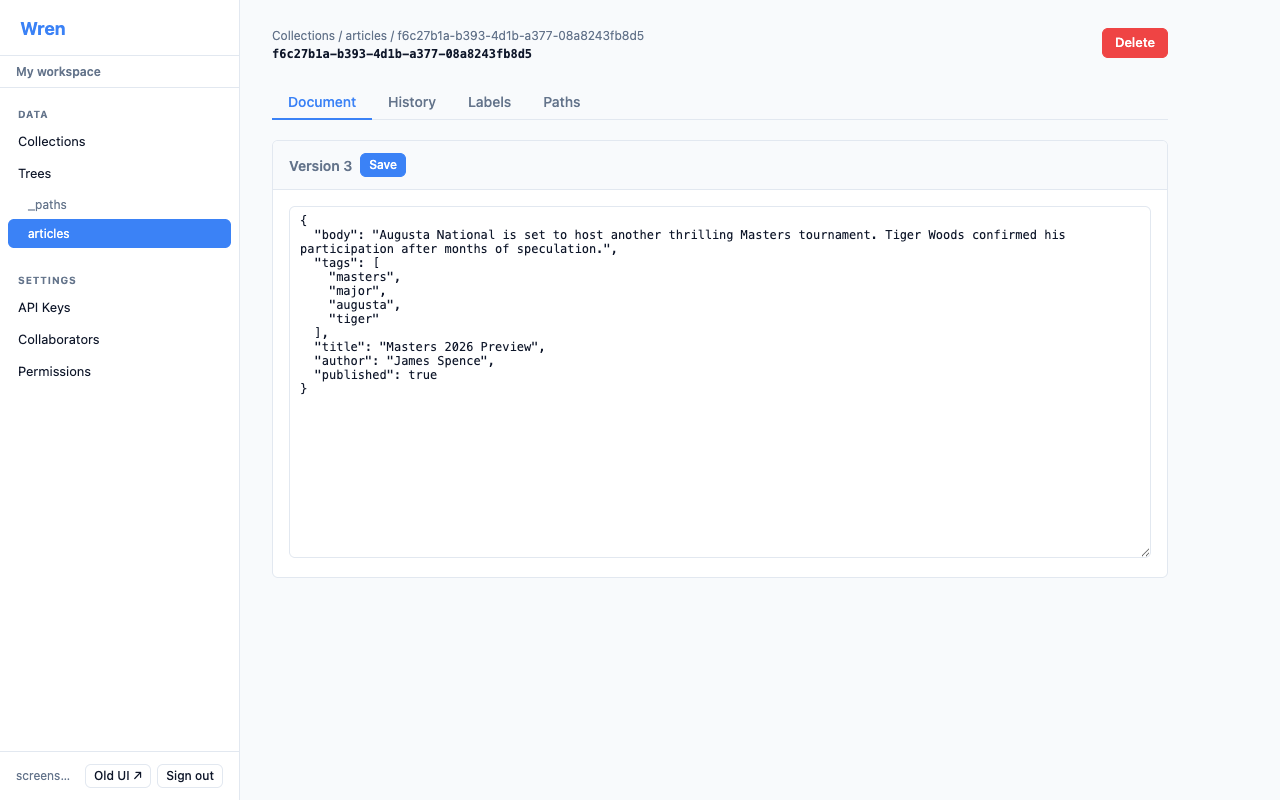
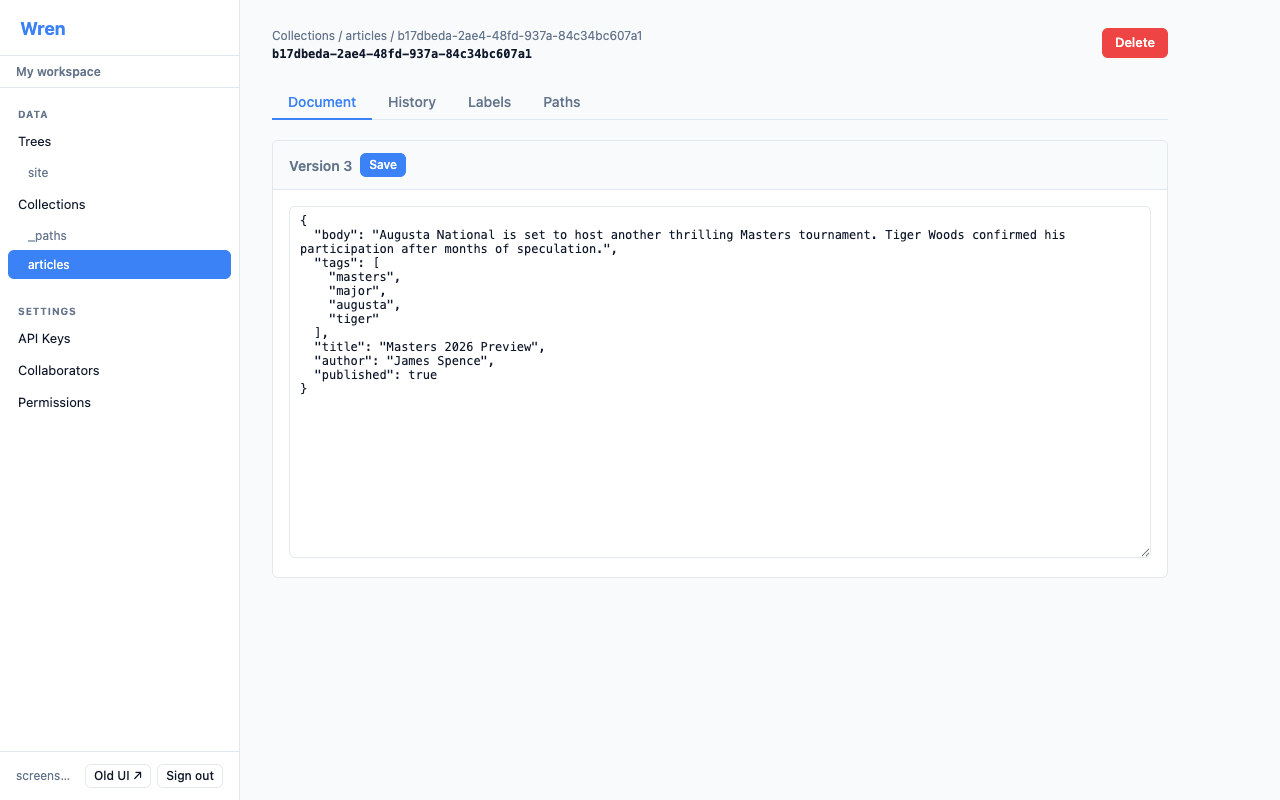
Regenerate all tutorial screenshots + add drilled-in tree view
- gen-screenshots.mjs now navigates to the tree file browser root
  directly (sidebar-linked), no more overview-click path
- Added 09b-tree-path.png showing a path with an assigned document,
  referenced from the tutorial
- Refreshed all existing screenshots: login now has Register tab,
  sidebar now lists trees above collections, etc.

diff --git a/tutorial.html b/tutorial.html
@@ -815,7 +815,10 @@ GET /tree/main/site/about</pre>
           </div>
         </div>
 
-        <img src="/img/09-tree.png" alt="Tree browser showing golf article paths" class="tutorial-screenshot">
+        <img src="/img/09-tree.png" alt="Tree browser at the site root with folders and the assign panel" class="tutorial-screenshot">
+
+        <p>Drill into a path to see the document assigned there, its JSON preview, and any children:</p>
+        <img src="/img/09b-tree-path.png" alt="Tree browser at /tournaments/masters-2026 showing the assigned document" class="tutorial-screenshot">
 
         <h3 id="tree-assign">Assign documents to a path</h3>
         <p>If a path has no document, the assign panel opens automatically. Otherwise click <strong>Reassign</strong>. The panel has three tabs:</p>
